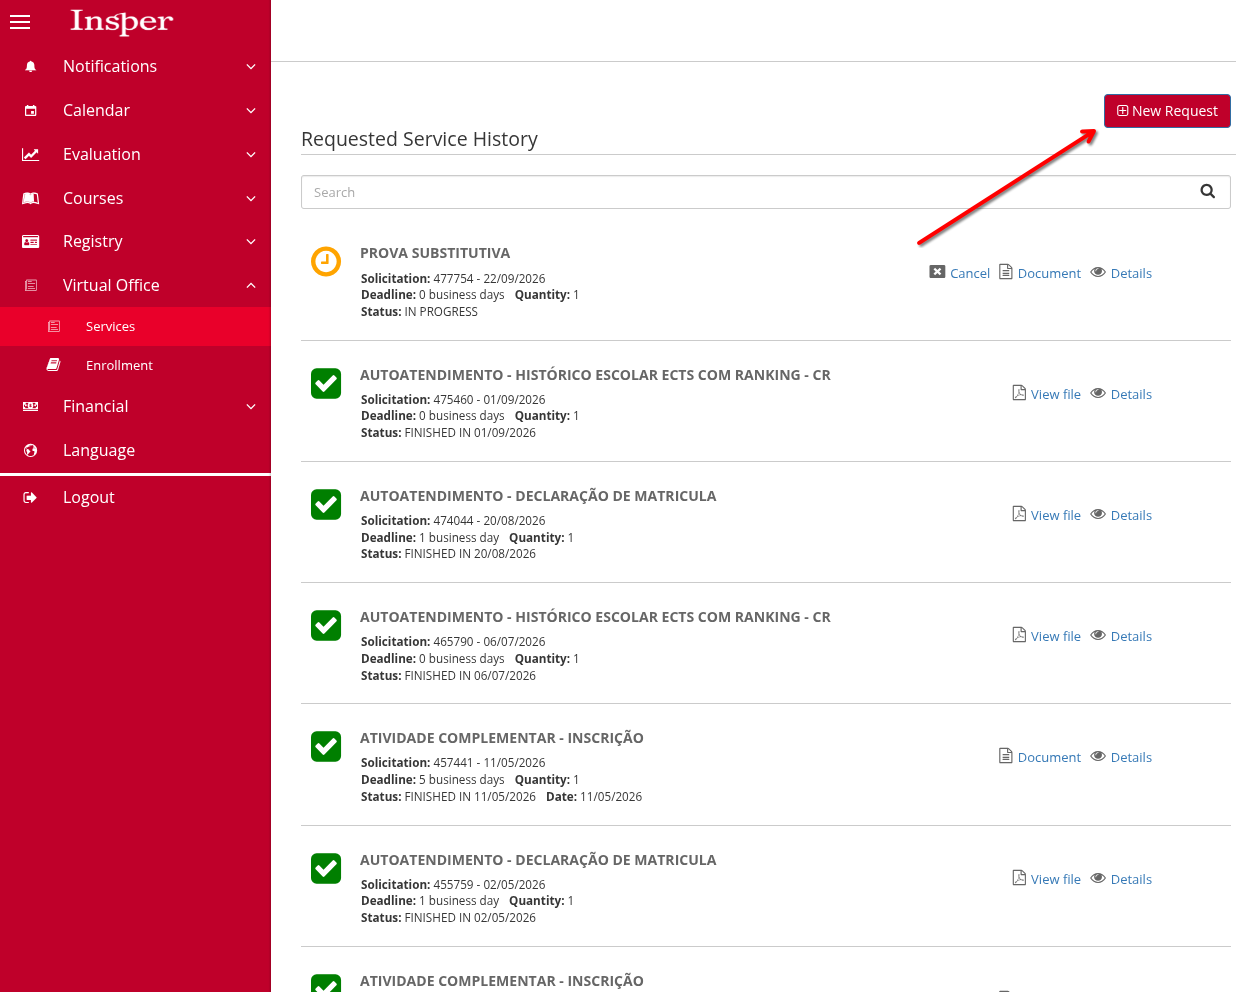
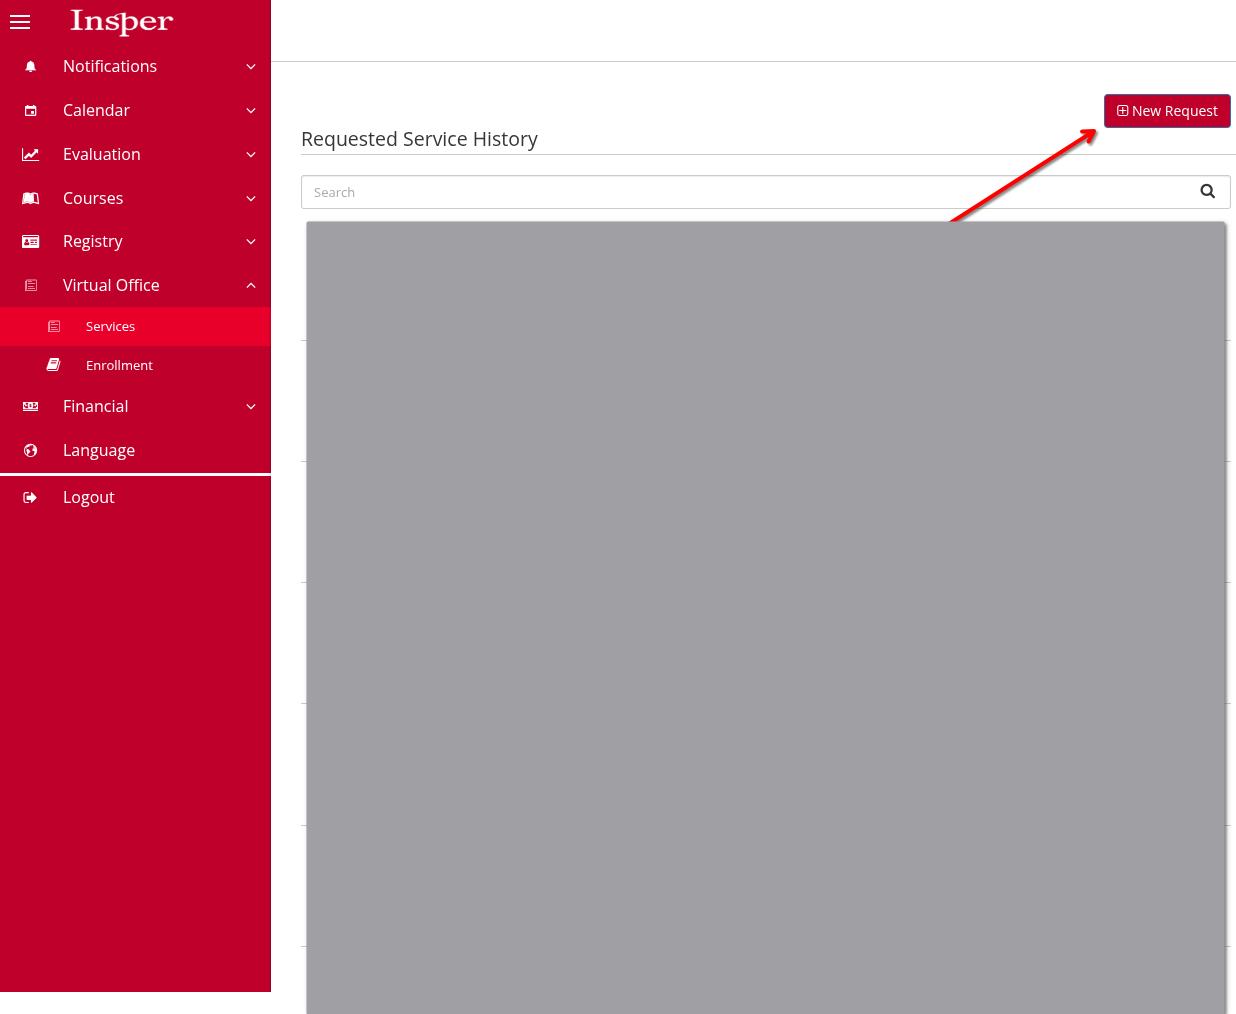
fix: img errada

diff --git a/site/combinados/index.html b/site/combinados/index.html
@@ -575,6 +575,17 @@
   
 </li>
       
+        <li class="md-nav__item">
+  <a href="#cadastrar-horas-complementares" class="md-nav__link">
+    <span class="md-ellipsis">
+      
+        Cadastrar horas complementares
+      
+    </span>
+  </a>
+  
+</li>
+      
     </ul>
   
 </nav>
@@ -701,10 +712,54 @@ atividade acadêmica e justifique a ausência no Code.</p>
 </tr>
 <tr>
 <td>15h</td>
-<td>Membro do time de Marketing ou presente em 2 ou mais eventos promovidos pelo Code.</td>
+<td>Membro com participação em 100% dos eventos ou desempenho notável durante o semestre.</td>
 </tr>
 </tbody>
 </table>
+<h2 id="cadastrar-horas-complementares">Cadastrar horas complementares<a class="headerlink" href="#cadastrar-horas-complementares" title="Permanent link">&para;</a></h2>
+<p>As horas de participação no Code precisam ser registradas oficialmente como
+<strong>Atividade Complementar</strong> no <a href="https://portaldoaluno.insper.edu.br">Portal do Aluno</a>.
+Siga o passo a passo abaixo.</p>
+<ol>
+<li>
+<p>Acesse o <a href="https://portaldoaluno.insper.edu.br">Portal do Aluno</a> </p>
+<p><img alt="Portal do Aluno" src="../img/1.png" /></p>
+</li>
+<li>
+<p>No menu lateral, clique em <strong>Aluno Online</strong>.</p>
+<p><img alt="Clicar em Aluno Online" src="../img/2.png" /></p>
+</li>
+<li>
+<p>Faça login com o seu usuário e senha do Insper.</p>
+<p><img alt="Tela de login do Insper" src="../img/3.png" /></p>
+</li>
+<li>
+<p>Já dentro do Aluno Online, no menu lateral, clique em <strong>Virtual Office</strong> ou <strong>Secretaria Virtual</strong>
+   para abrir o submenu.</p>
+<p><img alt="Abrir o menu Virtual Office" src="../img/4.png" /></p>
+</li>
+<li>
+<p>Clique em <strong>Services</strong> e, na tela de <strong>Requested Service History</strong>, clique
+   no botão <strong>New Request</strong>/ <strong>Nova Solicitação</strong>.</p>
+<p><img alt="Novo pedido de serviço" src="../img/5.png" /></p>
+</li>
+<li>
+<p>Na tela de <strong>Service Request</strong>, clique em <strong>Add Service</strong>/ <strong>Adicionar serviço</strong>.</p>
+<p><img alt="Adicionar serviço" src="../img/6.png" /></p>
+</li>
+<li>
+<p>Na lista de serviços que abrir, procure por <strong>ATIVIDADE COMPLEMENTAR -
+   INSCRIÇÃO</strong> e clique em <strong>Next</strong> na linha correspondente.</p>
+<p><img alt="Selecionar Atividade Complementar - Inscrição" src="../img/8.png" /></p>
+</li>
+<li>
+<p>Em <strong>Service Parameters</strong>, no campo <strong>Quantity</strong>, selecione a opção
+   referente ao Code e à quantidade de horas que você está cadastrando (por
+   exemplo, <code>AC_2025_62_CODE_10 - AC - MEMBRO ORGANIZAÇÃO ESTUDANTIL - INSPER
+   CODE JR. - 10 HORAS</code>) e conclua o envio da solicitação.</p>
+<p><img alt="Selecionar código e horas do Code" src="../img/9.png" /></p>
+</li>
+</ol>
 
 
 
